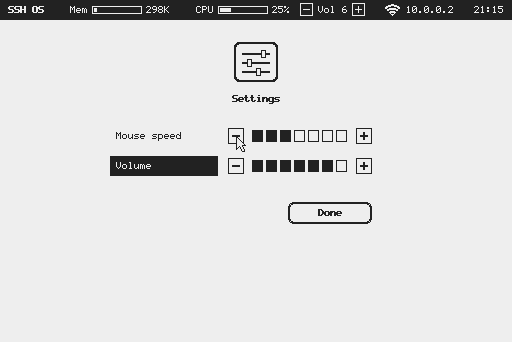
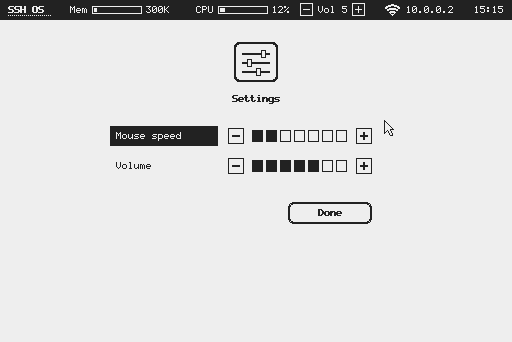
make release, an install guide, fresh screenshots
- make release builds dist/SSH-OS-VERSION.zip: the boot image, an empty SSH
  OS disk, the file that switches on the network adapter and a guide
  (docs/INSTALL.txt). It is built from config.release.txt, which holds
  nothing of anyone's own.
- README: install from a release, how the tests run on GitHub, status.
- Screenshots taken again from the current build.

diff --git a/tools/mkrelease.py b/tools/mkrelease.py
@@ -1,0 +1,52 @@
+#!/usr/bin/env python3
+"""Put together what someone needs to run SSH OS, as one zip ("make release").
+
+    mkrelease.py BOOT-IMAGE OUT-DIRECTORY
+
+The zip holds a folder with the three files for the BlueSCSI's card (the
+boot image given here, a fresh empty SSH OS disk, and the empty file that
+switches on the network adapter), the guide docs/INSTALL.txt and the
+licence. The boot image must come from the release settings
+(config.release.txt), not from your own: the Makefile sees to that.
+"""
+import os
+import re
+import sys
+import tempfile
+import zipfile
+
+HERE = os.path.dirname(os.path.abspath(__file__))
+ROOT = os.path.dirname(HERE)
+sys.path.insert(0, HERE)
+import sshosdisk  # noqa: E402
+
+
+def version():
+    text = open(os.path.join(ROOT, "kernel", "kernel.h")).read()
+    return re.search(r'#define SSHOS_VERSION "([^"]+)"', text).group(1)
+
+
+def main():
+    if len(sys.argv) != 3:
+        raise SystemExit(__doc__.strip())
+    boot, out = sys.argv[1], sys.argv[2]
+    name = "SSH-OS-" + version()
+    os.makedirs(out, exist_ok=True)
+    path = os.path.join(out, name + ".zip")
+    with tempfile.TemporaryDirectory() as tmp:
+        disk = os.path.join(tmp, "disk.hda")
+        sshosdisk.make(disk, 16)
+        with zipfile.ZipFile(path, "w", zipfile.ZIP_DEFLATED) as z:
+            z.write(boot, name + "/HD0_512 SSH OS boot.hda")
+            z.write(disk, name + "/HD1_512 SSH OS.hda")
+            z.writestr(name + "/NE4.hda", b"")
+            z.write(os.path.join(ROOT, "docs", "INSTALL.txt"), name + "/INSTALL.txt")
+            z.write(os.path.join(ROOT, "LICENSE"), name + "/LICENSE")
+    print("%s: %d KB" % (path, os.path.getsize(path) // 1024))
+    with zipfile.ZipFile(path) as z:
+        for info in z.infolist():
+            print("  %9d  %s" % (info.file_size, info.filename))
+
+
+if __name__ == "__main__":
+    main()

diff --git a/README.md b/README.md
@@ -12,10 +12,15 @@ after that it is never called again.
 ![The home screen](docs/home.png)
 
 **Status.** SSH OS runs on a real Macintosh SE (FDHD ROM, 4 MB) with a
-BlueSCSI: it starts from the card, shows the home screen and logs in over
-SSH. The newest parts (the terminal for full-screen programs, Settings, the
-Ping button, the start-up screen, the hardware test's board) have so far only run in
-the Snow emulator. See "Not done or not verified" at the end.
+BlueSCSI, which is where its author uses it: it starts from the card, shows
+the home screen and logs in over SSH. It is developed and tested in the Snow
+emulator, and not every part has been checked one by one on the real
+machine. See "Not done or not verified" at the end.
+
+**To try it** you need no tools: take the zip from the
+[releases page](https://github.com/naruse/SSH-OS/releases), copy its three
+files to an SD card and put the card in the BlueSCSI. See "Install from a
+release" below.
 
 ## What it does
 
@@ -55,6 +60,30 @@ To build it (macOS or Linux):
 Nothing else: no Apple software, no libraries. The ROM is not part of this
 repository and is not needed to build; only the emulator needs one (see
 "Emulator and tests").
+
+## Install from a release
+
+Each release on the [releases page](https://github.com/naruse/SSH-OS/releases)
+is one zip, `SSH-OS-VERSION.zip`, made by `make release`. In it:
+
+| File | What it is |
+|---|---|
+| `HD0_512 SSH OS boot.hda` | SSH OS itself; the SE starts from this |
+| `HD1_512 SSH OS.hda` | An empty SSH OS disk, where it keeps your WiFi, the servers you connect to and its own key |
+| `NE4.hda` | An empty file: it switches on the BlueSCSI's network adapter |
+| `INSTALL.txt` | These steps, and what to check if it does not start |
+
+1. Format an SD card as FAT32 or exFAT. Use a card of its own; your Mac OS
+   card stays as it is.
+2. Copy the three `.hda` files to the top of the card, names unchanged.
+3. Put the card in the BlueSCSI and switch the SE on.
+4. Click the fan at the right of the bar, click your WiFi network and type
+   its password.
+5. Click SSH, then New connection, and type `user@server`.
+
+The release is built from `config.release.txt`, which holds nothing but
+"ask the network for an address": no key, no server, no WiFi of anyone's.
+Nothing in it is Apple's. To build it yourself instead, read on.
 
 ## Build
 
@@ -378,6 +407,27 @@ make test-all
 | `test-hdboot` | Starting from the hard disk image alone, as on the BlueSCSI |
 | `test-vt-host` | The terminal, built for this computer: stated cases, and 300 random streams of orders compared with a second, separately written terminal |
 
+### Tests on GitHub
+
+`.github/workflows/tests.yml` runs the tests on every push. The ones built
+for an ordinary computer (network, ciphers, SSH, terminal, file system) need
+nothing else and also run for pull requests. The ones in the emulated SE
+need Apple's ROM, which is not in this repository and may not be: they take
+it from a private repository of yours.
+
+1. Make a private repository on GitHub and put your ROM image in it (any
+   name ending in `.ROM`).
+2. Make a fine-grained personal access token that can read that one
+   repository: Settings, Developer settings, Personal access tokens,
+   Fine-grained tokens; Repository access: only that repository;
+   Permissions: Contents, read-only.
+3. In this repository's Settings, under Secrets and variables, Actions: add
+   the token as the secret `ROM_REPO_TOKEN`, and the private repository's
+   name (`you/its-name`) as the variable `ROM_REPO`.
+
+Without the variable the emulator job is skipped. Pull requests from other
+people never get the ROM: GitHub does not hand them secrets.
+
 ## How long connecting takes
 
 The 68000 does all of SSH's arithmetic itself, in plain C. `make bench`
@@ -427,11 +477,10 @@ keyboard and mouse would need their own driver.
 
 ## Not done or not verified
 
-- On the real SE: starting from the BlueSCSI, the home screen and an SSH
-  log-in work. Everything added after that first run has only been tried in
-  the emulator: the terminal for full-screen programs, Settings and the mouse
-  speed, the Ping button, the start-up screen, the hardware test's board and
-  the memory map.
+- On the real SE the current build starts from the BlueSCSI and runs well
+  for its author, but what is checked with care is checked in the
+  emulator. Not yet tried on the real machine one by one: the memory test's
+  map, the SE's own key, the WiFi password's caret.
 - SSH:
   - Connecting takes about a minute (see above).
   - Random numbers, which SSH's safety rests on, are gathered from the
